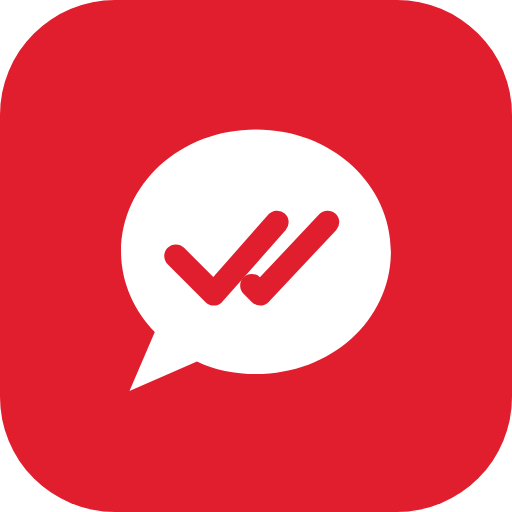
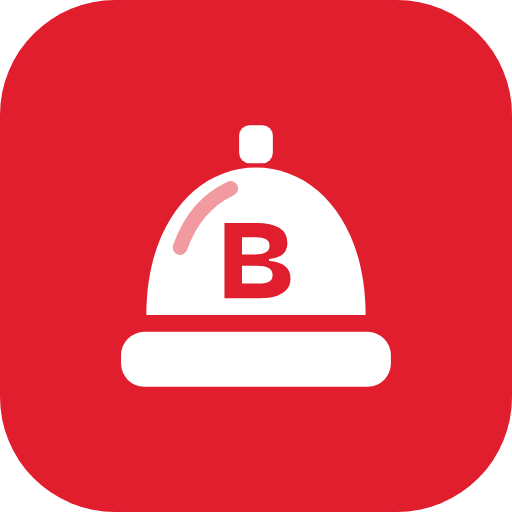
Troca a marca do site e do app para a opção 56 (B campainha)
Claude-Session: https://claude.ai/code/session_019pqwoSMJ198BP73rKNJgQj

Changed region(s): [[0.2188, 0.2188, 0.7812, 0.7812]]

diff --git a/painel.html b/painel.html
@@ -6,7 +6,7 @@
 <meta name="robots" content="noindex, nofollow">
 <title>Painel da loja — BoraLanchar!</title>
 <meta name="theme-color" content="#E01E2D">
-<link rel="icon" href="assets/brand/confirmado-icone.svg" type="image/svg+xml">
+<link rel="icon" href="assets/brand/campainha-icone.svg" type="image/svg+xml">
 <link rel="preconnect" href="https://fonts.googleapis.com">
 <link rel="preconnect" href="https://fonts.gstatic.com" crossorigin>
 <link rel="preload" as="style" href="https://fonts.googleapis.com/css2?family=Bricolage+Grotesque:opsz,wght@12..96,600;12..96,700;12..96,800&family=Figtree:wght@400;500;600;700&display=swap" onload="this.onload=null;this.rel='stylesheet'">
@@ -34,7 +34,7 @@
 <!-- ===== LOGIN ===== -->
 <section id="v-login" class="adm-login" hidden>
   <div class="adm-login-card">
-    <a class="brand" href="painel.html" aria-label="Voltar ao início do painel"><img class="wordmark" src="assets/brand/confirmado-logo.svg" width="193" height="34" alt="BoraLanchar!"></a>
+    <a class="brand" href="painel.html" aria-label="Voltar ao início do painel"><img class="wordmark" src="assets/brand/campainha-logo.svg" width="193" height="34" alt="BoraLanchar!"></a>
     <div><h1>Painel da sua loja</h1><p class="adm-muted">Entre com o e-mail e a senha que você criou no cadastro.</p></div>
     <form class="form" id="login-form" novalidate>
       <div class="field"><label for="l-email">E-mail</label><input id="l-email" type="email" autocomplete="email" required></div>
@@ -49,7 +49,7 @@
 <!-- ===== NOVA SENHA (link do e-mail) ===== -->
 <section id="v-pass" class="adm-login" hidden>
   <div class="adm-login-card">
-    <a class="brand" href="painel.html" aria-label="Voltar ao início do painel"><img class="wordmark" src="assets/brand/confirmado-logo.svg" width="193" height="34" alt="BoraLanchar!"></a>
+    <a class="brand" href="painel.html" aria-label="Voltar ao início do painel"><img class="wordmark" src="assets/brand/campainha-logo.svg" width="193" height="34" alt="BoraLanchar!"></a>
     <div><h1>Crie uma nova senha</h1><p class="adm-muted">Use pelo menos 8 caracteres.</p></div>
     <form class="form" id="pass-form" novalidate>
       <div class="field"><label for="p1">Nova senha</label><input id="p1" type="password" autocomplete="new-password" minlength="8" required></div>
@@ -62,7 +62,7 @@
 <!-- ===== MENSAGEM ===== -->
 <section id="v-msg" class="adm-login" hidden>
   <div class="adm-login-card">
-    <a class="brand" href="painel.html" aria-label="Voltar ao início do painel"><img class="wordmark" src="assets/brand/confirmado-logo.svg" width="193" height="34" alt="BoraLanchar!"></a>
+    <a class="brand" href="painel.html" aria-label="Voltar ao início do painel"><img class="wordmark" src="assets/brand/campainha-logo.svg" width="193" height="34" alt="BoraLanchar!"></a>
     <h1 id="msg-title"></h1>
     <p class="adm-muted" id="msg-text"></p>
     <div id="msg-actions" style="display:flex;flex-direction:column;gap:10px"></div>
@@ -77,7 +77,7 @@
   </div>
   <div class="trial-bar" id="trial-bar" hidden></div>
   <header class="adm-top">
-    <a class="brand" href="painel.html" aria-label="Voltar ao início do painel"><img class="wordmark" src="assets/brand/confirmado-logo.svg" width="193" height="34" alt="BoraLanchar!"></a>
+    <a class="brand" href="painel.html" aria-label="Voltar ao início do painel"><img class="wordmark" src="assets/brand/campainha-logo.svg" width="193" height="34" alt="BoraLanchar!"></a>
     <span class="adm-tag" id="store-name-tag">Minha loja</span>
     <div class="adm-top-right">
       <label class="open-switch" title="Abrir ou fechar a loja para pedidos">

diff --git a/admin.html b/admin.html
@@ -5,7 +5,7 @@
 <meta name="viewport" content="width=device-width, initial-scale=1">
 <meta name="robots" content="noindex, nofollow">
 <title>Painel admin — BoraLanchar!</title>
-<link rel="icon" href="assets/brand/confirmado-icone.svg" type="image/svg+xml">
+<link rel="icon" href="assets/brand/campainha-icone.svg" type="image/svg+xml">
 <link rel="preconnect" href="https://fonts.googleapis.com">
 <link rel="preconnect" href="https://fonts.gstatic.com" crossorigin>
 <link rel="preload" as="style" href="https://fonts.googleapis.com/css2?family=Bricolage+Grotesque:opsz,wght@12..96,600;12..96,700;12..96,800&family=Figtree:wght@400;500;600;700&display=swap" onload="this.onload=null;this.rel='stylesheet'">
@@ -19,7 +19,7 @@
 <!-- ===== LOGIN ===== -->
 <section id="view-login" class="adm-login" hidden>
   <div class="adm-login-card">
-    <a class="brand" href="admin.html" aria-label="Voltar ao início do admin"><img class="wordmark" src="assets/brand/confirmado-logo.svg" width="193" height="34" alt="BoraLanchar!"></a>
+    <a class="brand" href="admin.html" aria-label="Voltar ao início do admin"><img class="wordmark" src="assets/brand/campainha-logo.svg" width="193" height="34" alt="BoraLanchar!"></a>
     <div>
       <h1>Área administrativa</h1>
       <p class="adm-muted">Entre com a conta de administrador.</p>
@@ -38,7 +38,7 @@
 <!-- ===== DEFINIR SENHA (convite / redefinição) ===== -->
 <section id="view-password" class="adm-login" hidden>
   <div class="adm-login-card">
-    <a class="brand" href="admin.html" aria-label="Voltar ao início do admin"><img class="wordmark" src="assets/brand/confirmado-logo.svg" width="193" height="34" alt="BoraLanchar!"></a>
+    <a class="brand" href="admin.html" aria-label="Voltar ao início do admin"><img class="wordmark" src="assets/brand/campainha-logo.svg" width="193" height="34" alt="BoraLanchar!"></a>
     <div>
       <h1>Defina sua senha</h1>
       <p class="adm-muted">Use pelo menos 8 caracteres.</p>
@@ -55,7 +55,7 @@
 <!-- ===== SEM PERMISSÃO / CONFIG ===== -->
 <section id="view-message" class="adm-login" hidden>
   <div class="adm-login-card">
-    <a class="brand" href="admin.html" aria-label="Voltar ao início do admin"><img class="wordmark" src="assets/brand/confirmado-logo.svg" width="193" height="34" alt="BoraLanchar!"></a>
+    <a class="brand" href="admin.html" aria-label="Voltar ao início do admin"><img class="wordmark" src="assets/brand/campainha-logo.svg" width="193" height="34" alt="BoraLanchar!"></a>
     <h1 id="msg-title"></h1>
     <p class="adm-muted" id="msg-text"></p>
     <button class="btn btn-outline btn-block" id="msg-btn" type="button">Sair</button>
@@ -65,7 +65,7 @@
 <!-- ===== PAINEL ===== -->
 <div id="view-app" class="adm-app" hidden>
   <header class="adm-top">
-    <a class="brand" href="admin.html" aria-label="Voltar ao início do admin"><img class="wordmark" src="assets/brand/confirmado-logo.svg" width="193" height="34" alt="BoraLanchar!"></a>
+    <a class="brand" href="admin.html" aria-label="Voltar ao início do admin"><img class="wordmark" src="assets/brand/campainha-logo.svg" width="193" height="34" alt="BoraLanchar!"></a>
     <span class="adm-tag">Admin</span>
     <div class="adm-top-right">
       <span class="adm-user" id="who"></span>

diff --git a/index.html b/index.html
@@ -9,7 +9,7 @@
 <meta property="og:title" content="BoraLanchar! — Seu cardápio vende. E você cozinha!">
 <meta property="og:description" content="Pedidos, cardápio digital e gestão para restaurantes e delivery.">
 <meta property="og:type" content="website">
-<link rel="icon" href="assets/brand/confirmado-icone.svg" type="image/svg+xml">
+<link rel="icon" href="assets/brand/campainha-icone.svg" type="image/svg+xml">
 <link rel="apple-touch-icon" href="assets/app/apple-touch-icon.png">
 <link rel="preconnect" href="https://fonts.googleapis.com">
 <link rel="preconnect" href="https://fonts.gstatic.com" crossorigin>
@@ -55,7 +55,7 @@
 <header class="header">
   <div class="container nav">
     <a class="brand" href="#topo" aria-label="BoraLanchar! — início">
-      <img class="wordmark" src="assets/brand/confirmado-logo.svg" width="193" height="34" alt="BoraLanchar!">
+      <img class="wordmark" src="assets/brand/campainha-logo.svg" width="193" height="34" alt="BoraLanchar!">
     </a>
     <nav class="nav-links" aria-label="Principal">
       <a href="#produto">Produto</a>
@@ -125,7 +125,7 @@
         <p>2× Bacon Brasa · 1× Batata frita</p>
         <div class="acts"><span>Aceitar</span><span>Detalhes</span></div>
       </div>
-      <img class="hero-sticker" src="assets/brand/confirmado-simbolo.svg" alt="" aria-hidden="true" width="156" height="152">
+      <img class="hero-sticker" src="assets/brand/campainha-simbolo.svg" alt="" aria-hidden="true" width="156" height="152">
       <div class="float float-pay" aria-hidden="true">
         <i><svg width="18" height="18" style="color:#fff"><use href="#i-check"/></svg></i>
         <span><small>Pagamento aprovado</small><b>Pix confirmado</b></span>
@@ -382,7 +382,7 @@
 <section class="section" style="padding:96px 0">
   <div class="container">
     <div class="cta-box reveal">
-      <img class="cta-seal" loading="lazy" decoding="async" src="assets/brand/confirmado-simbolo-branco.svg" alt="" aria-hidden="true" width="156" height="152">
+      <img class="cta-seal" loading="lazy" decoding="async" src="assets/brand/campainha-simbolo-branco.svg" alt="" aria-hidden="true" width="156" height="152">
       <div style="flex:1 1 480px;min-width:0">
         <span class="cta-kicker">Bateu a fome? Bora lanchar!</span>
         <h2>Seu próximo pedido pode chegar ainda hoje.</h2>
@@ -401,7 +401,7 @@
   <div class="container">
     <div class="footer-top">
       <div class="footer-brand">
-        <a class="brand" href="#topo"><img class="wordmark" loading="lazy" decoding="async" src="assets/brand/confirmado-logo-branco.svg" width="216" height="38" alt="BoraLanchar!"></a>
+        <a class="brand" href="#topo"><img class="wordmark" loading="lazy" decoding="async" src="assets/brand/campainha-logo-branco.svg" width="216" height="38" alt="BoraLanchar!"></a>
         <p style="font-size:15px">Pedidos, cardápio digital e gestão para restaurantes que querem crescer sem perder o controle.</p>
         <div class="socials">
           <a href="#" aria-label="Instagram"><svg width="20" height="20"><use href="#i-ig"/></svg></a>

diff --git a/privacidade.html b/privacidade.html
@@ -4,7 +4,7 @@
 <meta charset="utf-8">
 <meta name="viewport" content="width=device-width, initial-scale=1">
 <title>Política de privacidade — BoraLanchar!</title>
-<link rel="icon" href="assets/brand/confirmado-icone.svg" type="image/svg+xml">
+<link rel="icon" href="assets/brand/campainha-icone.svg" type="image/svg+xml">
 <link rel="preconnect" href="https://fonts.googleapis.com">
 <link rel="preconnect" href="https://fonts.gstatic.com" crossorigin>
 <link rel="preload" as="style" href="https://fonts.googleapis.com/css2?family=Bricolage+Grotesque:opsz,wght@12..96,600;12..96,700;12..96,800&family=Figtree:wght@400;500;600;700&display=swap" onload="this.onload=null;this.rel='stylesheet'">
@@ -12,7 +12,7 @@
 <link rel="stylesheet" href="assets/styles.css">
 </head>
 <body>
-<header class="header"><div class="container nav"><a class="brand" href="index.html"><img class="wordmark" src="assets/brand/confirmado-logo.svg" width="193" height="34" alt="BoraLanchar!"></a><a class="btn btn-outline" href="index.html">Voltar ao site</a></div></header>
+<header class="header"><div class="container nav"><a class="brand" href="index.html"><img class="wordmark" src="assets/brand/campainha-logo.svg" width="193" height="34" alt="BoraLanchar!"></a><a class="btn btn-outline" href="index.html">Voltar ao site</a></div></header>
 <main class="section"><article class="container" style="max-width:760px;display:flex;flex-direction:column;gap:20px">
 <span class="eyebrow">Documento modelo</span>
 <h1 class="h2">Política de privacidade</h1>

diff --git a/termos.html b/termos.html
@@ -4,7 +4,7 @@
 <meta charset="utf-8">
 <meta name="viewport" content="width=device-width, initial-scale=1">
 <title>Termos de uso — BoraLanchar!</title>
-<link rel="icon" href="assets/brand/confirmado-icone.svg" type="image/svg+xml">
+<link rel="icon" href="assets/brand/campainha-icone.svg" type="image/svg+xml">
 <link rel="preconnect" href="https://fonts.googleapis.com">
 <link rel="preconnect" href="https://fonts.gstatic.com" crossorigin>
 <link rel="preload" as="style" href="https://fonts.googleapis.com/css2?family=Bricolage+Grotesque:opsz,wght@12..96,600;12..96,700;12..96,800&family=Figtree:wght@400;500;600;700&display=swap" onload="this.onload=null;this.rel='stylesheet'">
@@ -12,7 +12,7 @@
 <link rel="stylesheet" href="assets/styles.css">
 </head>
 <body>
-<header class="header"><div class="container nav"><a class="brand" href="index.html"><img class="wordmark" src="assets/brand/confirmado-logo.svg" width="193" height="34" alt="BoraLanchar!"></a><a class="btn btn-outline" href="index.html">Voltar ao site</a></div></header>
+<header class="header"><div class="container nav"><a class="brand" href="index.html"><img class="wordmark" src="assets/brand/campainha-logo.svg" width="193" height="34" alt="BoraLanchar!"></a><a class="btn btn-outline" href="index.html">Voltar ao site</a></div></header>
 <main class="section"><article class="container" style="max-width:760px;display:flex;flex-direction:column;gap:20px">
 <span class="eyebrow">Documento modelo</span>
 <h1 class="h2">Termos de uso</h1>

diff --git a/assinar.html b/assinar.html
@@ -6,7 +6,7 @@
 <title>Assinar plano — BoraLanchar!</title>
 <meta name="description" content="Escolha seu plano do BoraLanchar! e pague com Pix, cartão ou boleto.">
 <meta name="theme-color" content="#E01E2D">
-<link rel="icon" href="assets/brand/confirmado-icone.svg" type="image/svg+xml">
+<link rel="icon" href="assets/brand/campainha-icone.svg" type="image/svg+xml">
 <link rel="preconnect" href="https://fonts.googleapis.com">
 <link rel="preconnect" href="https://fonts.gstatic.com" crossorigin>
 <link rel="preload" as="style" href="https://fonts.googleapis.com/css2?family=Bricolage+Grotesque:opsz,wght@12..96,600;12..96,700;12..96,800&family=Figtree:wght@400;500;600;700&display=swap" onload="this.onload=null;this.rel='stylesheet'">
@@ -26,7 +26,7 @@
 </svg>
 
 <header class="as-top">
-  <a class="brand" href="index.html"><img class="wordmark" src="assets/brand/confirmado-logo.svg" width="193" height="34" alt="BoraLanchar!"></a>
+  <a class="brand" href="index.html"><img class="wordmark" src="assets/brand/campainha-logo.svg" width="193" height="34" alt="BoraLanchar!"></a>
   <a class="as-back" href="index.html#planos"><svg width="18" height="18"><use href="#i-left"/></svg><span class="lg">Ver todos os </span>planos</a>
 </header>
 

diff --git a/baixar.html b/baixar.html
@@ -7,7 +7,7 @@
 <meta name="description" content="Baixe o app BoraLanchar! no Android, iPhone, Windows ou Mac e receba os pedidos do seu restaurante com aviso sonoro.">
 <meta name="theme-color" content="#E01E2D">
 <link rel="manifest" href="/manifest.webmanifest">
-<link rel="icon" href="/assets/brand/confirmado-icone.svg" type="image/svg+xml">
+<link rel="icon" href="/assets/brand/campainha-icone.svg" type="image/svg+xml">
 <link rel="apple-touch-icon" href="/assets/app/apple-touch-icon.png">
 <meta name="apple-mobile-web-app-capable" content="yes">
 <meta name="mobile-web-app-capable" content="yes">
@@ -34,7 +34,7 @@
 
 <header class="dl-top">
   <div class="container dl-nav">
-    <a class="brand" href="/" aria-label="BoraLanchar! — início"><img class="wordmark" src="/assets/brand/confirmado-logo.svg" width="165" height="29" alt="BoraLanchar!"></a>
+    <a class="brand" href="/" aria-label="BoraLanchar! — início"><img class="wordmark" src="/assets/brand/campainha-logo.svg" width="165" height="29" alt="BoraLanchar!"></a>
     <a class="dl-web" href="/painel.html">Entrar pelo navegador</a>
   </div>
 </header>

diff --git a/garcom.html b/garcom.html
@@ -6,7 +6,7 @@
 <meta name="robots" content="noindex, nofollow">
 <title>App do garçom · BoraLanchar!</title>
 <meta name="theme-color" content="#1A1112">
-<link rel="icon" href="/assets/brand/confirmado-icone.svg" type="image/svg+xml">
+<link rel="icon" href="/assets/brand/campainha-icone.svg" type="image/svg+xml">
 <link rel="preconnect" href="https://fonts.googleapis.com">
 <link rel="preconnect" href="https://fonts.gstatic.com" crossorigin>
 <link rel="preload" as="style" href="https://fonts.googleapis.com/css2?family=Bricolage+Grotesque:opsz,wght@12..96,700;12..96,800&family=Figtree:wght@400;500;600;700&display=swap" onload="this.onload=null;this.rel='stylesheet'">

diff --git a/motoboy.html b/motoboy.html
@@ -6,7 +6,7 @@
 <meta name="robots" content="noindex, nofollow">
 <title>App do motoboy · BoraLanchar!</title>
 <meta name="theme-color" content="#1A1112">
-<link rel="icon" href="/assets/brand/confirmado-icone.svg" type="image/svg+xml">
+<link rel="icon" href="/assets/brand/campainha-icone.svg" type="image/svg+xml">
 <link rel="preconnect" href="https://fonts.googleapis.com">
 <link rel="preconnect" href="https://fonts.gstatic.com" crossorigin>
 <link rel="preload" as="style" href="https://fonts.googleapis.com/css2?family=Bricolage+Grotesque:opsz,wght@12..96,700;12..96,800&family=Figtree:wght@400;500;600;700&display=swap" onload="this.onload=null;this.rel='stylesheet'">

diff --git a/cozinha.html b/cozinha.html
@@ -6,7 +6,7 @@
 <meta name="robots" content="noindex, nofollow">
 <title>Cozinha · BoraLanchar!</title>
 <meta name="theme-color" content="#120B0C">
-<link rel="icon" href="/assets/brand/confirmado-icone.svg" type="image/svg+xml">
+<link rel="icon" href="/assets/brand/campainha-icone.svg" type="image/svg+xml">
 <link rel="preconnect" href="https://fonts.googleapis.com">
 <link rel="preconnect" href="https://fonts.gstatic.com" crossorigin>
 <link rel="preload" as="style" href="https://fonts.googleapis.com/css2?family=Bricolage+Grotesque:opsz,wght@12..96,700;12..96,800&family=Figtree:wght@400;500;600;700;800&display=swap" onload="this.onload=null;this.rel='stylesheet'">

diff --git a/sw.js b/sw.js
@@ -1,7 +1,7 @@
 /* BoraLanchar! — service worker do app (painel instalável)
    Sempre busca a versão nova na internet; só usa o que está guardado quando estiver sem conexão. */
-const CACHE = 'bora-app-v3';
-const SHELL = ['/painel.html', '/baixar.html', '/assets/app/icone-192.png', '/assets/brand/confirmado-logo.svg'];
+const CACHE = 'bora-app-v4';
+const SHELL = ['/painel.html', '/baixar.html', '/assets/app/icone-192.png', '/assets/brand/campainha-logo.svg'];
 
 self.addEventListener('install', (e) => {
   e.waitUntil(caches.open(CACHE).then((c) => c.addAll(SHELL)).then(() => self.skipWaiting()));

diff --git a/cardapio.html b/cardapio.html
@@ -3,7 +3,7 @@
 <head>
 <meta charset="utf-8">
 <meta name="viewport" content="width=device-width, initial-scale=1, viewport-fit=cover">
-<link rel="icon" href="assets/brand/confirmado-icone.svg" type="image/svg+xml">
+<link rel="icon" href="assets/brand/campainha-icone.svg" type="image/svg+xml">
 <title>Brasa & Pão</title>
 <link rel="preconnect" href="https://fonts.googleapis.com">
 <link rel="preconnect" href="https://fonts.gstatic.com" crossorigin>
